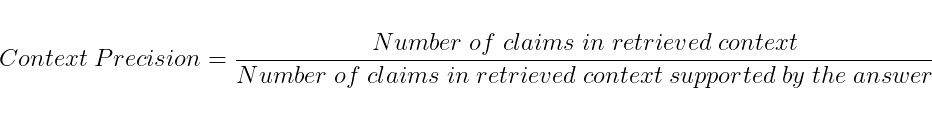
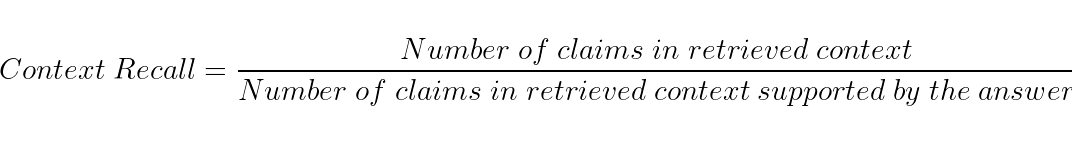
metrics documentation fixes

Changed region(s): [[0.0, 0.4, 1.0, 0.75], [0.3734, 0.25, 0.8712, 0.45], [0.529, 0.55, 0.5601, 0.575]]

diff --git a/docs/METRICS.md b/docs/METRICS.md
@@ -3,12 +3,12 @@
 </h2>
 
 ## Overview
-Metrics are categorized into **Retrieval metrics** and **Generation metrics**, which constitute the original evaluation metrics. In addition, there are **Custom metrics** that allow users to define their own measures, making the evaluation process more flexible and tailored to specific needs. Furthermore, metrics are distinguished as **LLM-based** and **non-LLM-based**, depending on whether they leverage large language models. All metrics are presented below along with their corresponding tags for clarity and reference.
+Metrics are categorized into `Retrieval metrics` and `Generation metrics`, which constitute the original evaluation metrics. In addition, there are `Custom metrics` that allow users to define their own measures, making the evaluation process more flexible and tailored to specific needs. Furthermore, metrics are distinguished as `LLM-based` and `non-LLM-based`, depending on whether they leverage large language models. All metrics are presented below along with their corresponding tags for clarity and reference.
 
 ## Retrieval Metrics
 ### ContextPrecision 
-`LLM-Based`
-*“Does the retrieved context provide relevant information to support the answer?”*
+`LLM-Based`<br>
+*Does the retrieved context provide relevant information to support the answer?*
 Context Precision measures how much of the retrieved context is actually useful for answering the user query.<br>
 It ranges from 0 to 1, where higher scores indicate that the retrieved context is highly relevant to the query.<br>
 
@@ -17,12 +17,12 @@ To calculate context precision:
 2. Compare each claim against the user query to see if it is relevant for answering the query.
 3. Compute Context Precision using the formula:
 <p align="center">
-<img src="./images/doc_images/context_precision.png" alt="metrics-formula" style="height:70px;">
+<img src="../images/doc_images/context_precision.png" alt="metrics-formula" style="height:90px;">
 </p>
 
 ### ContextRecall
-`LLM-Based`
-*“Does the answer cover the important information present in the retrieved context?”*
+`LLM-Based`<br>
+*Does the answer cover the important information present in the retrieved context?*
 
 Context Recall measures how many of the relevant documents (or pieces of information) were successfully retrieved.<br>
 It focuses on not missing important results.<br>
@@ -33,33 +33,33 @@ To calculate this:
 2. Check whether each context claim is covered by the answer
 3. Compute recall using the formula:
 <p align="center">
-<img src="./images/doc_images/context_recall.png" alt="metrics-formula" style="height:70px;">
+<img src="../images/doc_images/context_recall.png" alt="metrics-formula" style="height:90px;">
 </p>
 
 ### CosineSimilarity
-`Non LLM-Based`
-*“Does the retrieved context semantically align with the user query?*
+`Non LLM-Based`<br>
+*Does the retrieved context semantically align with the user query?*
 Cosine similarity measures the semantic similarity between the USER INPUT and each of the RETRIEVED DOCUMENTS.<br>
 It returns a list of numbers between 0 and 1 that represent the cosine similarity for all the documents in the retrieved context. <br>
 It is computed using the formula:
 <p align="center">
-<img src="./images/doc_images/cosine_similarity.png" alt="metrics-formula" style="height:70px;">
+<img src="../images/doc_images/cosine_similarity.png" alt="metrics-formula" style="height:90px;">
 </p>
 
 ### F1Score
-`Non LLM-Based`
-*“Does the answer cover the important information in the retrieved context accurately and completely?”*
+`Non LLM-Based`<br>
+*Does the answer cover the important information in the retrieved context accurately and completely?*
 F1 score represents a harmonic mean of precision and recall, balancing both.<br>
 It ranges from 0 to 1, where higher scores indicate better overall performance of the system.<br>
 Compute f1-score using the formula:
 <p align="center">
-<img src="./images/doc_images/f1score.png" alt="metrics-formula" style="height:70px;">
+<img src="../images/doc_images/f1score.png" alt="metrics-formula" style="height:90px;">
 </p>
 
 ## Generation Metrics
 ### Faithfulness
-`LLM-Based`
-*“Are the claims in the answer supported by the retrieved context?”*
+`LLM-Based`<br>
+*Are the claims in the answer supported by the retrieved context?*
 The Faithfulness metric measures how factually consistent a response is with the retrieved context. <br>
 It ranges from 0 to 1, with higher scores indicating better consistency.<br>
 A response is considered faithful if all its claims can be supported by the retrieved context.<br>
@@ -68,12 +68,12 @@ To calculate this:
 2. Check each claim to see if it can be inferred from the retrieved context.
 3. Compute the faithfulness score using the formula:
 <p align="center">
-<img src="./images/doc_images/faithfulness.png" alt="metrics-formula" style="height:70px;">
+<img src="../images/doc_images/faithfulness.png" alt="metrics-formula" style="height:90px;">
 </p>
 
 ### AnswerRelevancy
-`LLM-Based`
-*“If we inferred questions from the answer, would they match the user’s question?”*
+`LLM-Based`<br>
+*If we inferred questions from the answer, would they match the user’s question?*
 The Anser Relevancy metric measures how relevant a response is to the user input<br>
 It ranges from 0 to 1 with higher scores indicating better alignment with the user input<br>
 To calculate this
@@ -83,12 +83,12 @@ To calculate this
 3. Take the average of these cosine similarity scores to get the Answer Relevancy
 You can calculate the Answer Relevancy using the formula:
 <p align="center">
-<img src="./images/doc_images/answer_relevancy.png" alt="metrics-formula" style="height:70px;">
+<img src="../images/doc_images/answer_relevancy.png" alt="metrics-formula" style="height:90px;">
 </p>
 
-## Custom Metrics
+## Custom Metrics`
 ### Product Relevancy
-`LLM-Based`
+`LLM-Based`<br>
 *Do the products retrieved from the database match the user's request?*
 Product Relevancy measures how many relevant products were retrieved<br>
 >OPTIONAL: Use real human labels to decide product relevancy based on the search the user made
@@ -97,7 +97,7 @@ To calculate this:
 2. OPTIONAL: With LLM check whether each product is relevant to the user quer
 3. Compute metric using the formula:
 <p align="center">
-<img src="./images/doc_images/answer_relevancy.png" alt="metrics-formula" style="height:70px;">
+<img src="../images/doc_images/product_relevancy.png" alt="metrics-formula" style="height:90px;">
 </p>
 <br>
 

diff --git a/README.md b/README.md
@@ -20,7 +20,7 @@ Its goal is simplicity: small, modular metrics that are easy to understand, exte
 
 ## Metrics
 **ragret** provides evaluation metrics for assessing different aspects of RAG system performance.<br>
-It includes both LLM-based and non-LLM-based metrics, which are described with more detail in the [METRICS](docs/METRICS.md) file.<br>
+It includes both LLM-based and non-LLM-based metrics, which are described with more detail in [METRICS](docs/METRICS.md)<br>
 
 - AnswerRelevancy
 - Faithfulness
